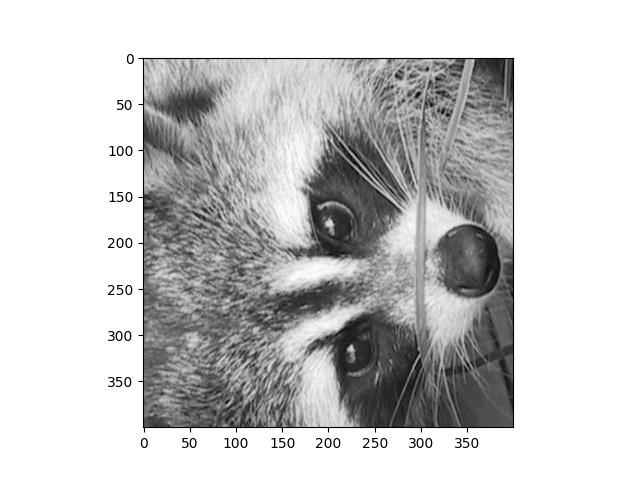
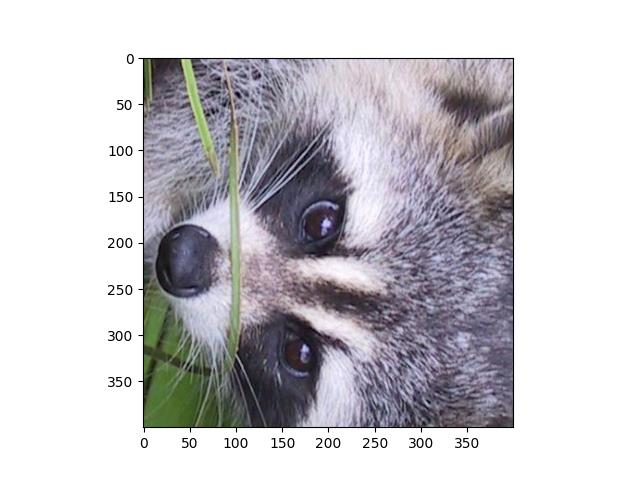
start project

diff --git a/Python_1/ex04/rotate.py b/Python_1/ex04/rotate.py
@@ -7,8 +7,6 @@ def ft_zoom(picture: np.ndarray):
     """The functions takes the pixels of a picture, zoom in and rotate."""
     try:
         new_array = picture[100:500, 400:800]
-        if new_array.ndim == 3 and new_array.shape[2] == 3:
-            new_array = new_array.mean(axis=2, keepdims=True).astype(np.uint8)
         print(f"New shape after slicing: {new_array.shape}")
         print(new_array)
         return (new_array)
@@ -18,27 +16,27 @@ def ft_zoom(picture: np.ndarray):
 
 
 def ft_rotate(picture: np.ndarray):
-    """This function takes a picture and rotate it."""
-    print(picture.shape)
-    array = picture.tolist()
-    height = len(array)
-    width = len(array[0])
+    """This function rotates a color image 90 degrees counterclockwise."""
+    print(f"Original shape: {picture.shape}")
+
+    height, width, channels = picture.shape
     new_array_transpose = []
-    for i in range(height):
+
+    for j in range(width):
         new_row = []
-        for j in range(width):
-            new_row.append(array[j][i][0])
+        for i in reversed(range(height)):
+            new_row.append(picture[i][j])
         new_array_transpose.append(new_row)
+
     result = np.array(new_array_transpose, dtype=np.uint8)
     print(f"New shape after Transpose: {result.shape}")
-    print(result)
-    return (result)
+    return result
 
 
 def display_image(picture: np.ndarray):
     """The functions takes the pixels of a picture and displays it."""
     try:
-        plt.imshow(picture.squeeze(), cmap='gray')
+        plt.imshow(picture.squeeze())
         plt.savefig("rotate.jpeg")
         print("Picture saved as 'rotate.jpeg'")
     except Exception as e:

diff --git a/Python_1/ex03/zoom.py b/Python_1/ex03/zoom.py
@@ -7,8 +7,6 @@ def ft_zoom(picture: np.ndarray):
     """The functions takes the pixels of a picture and zoom in."""
     try:
         new_array = picture[100:500, 400:800]
-        if new_array.ndim == 3 and new_array.shape[2] == 3:
-            new_array = new_array.mean(axis=2, keepdims=True).astype(np.uint8)
         print(f"New shape after slicing: {new_array.shape}")
         print(new_array)
         return new_array
